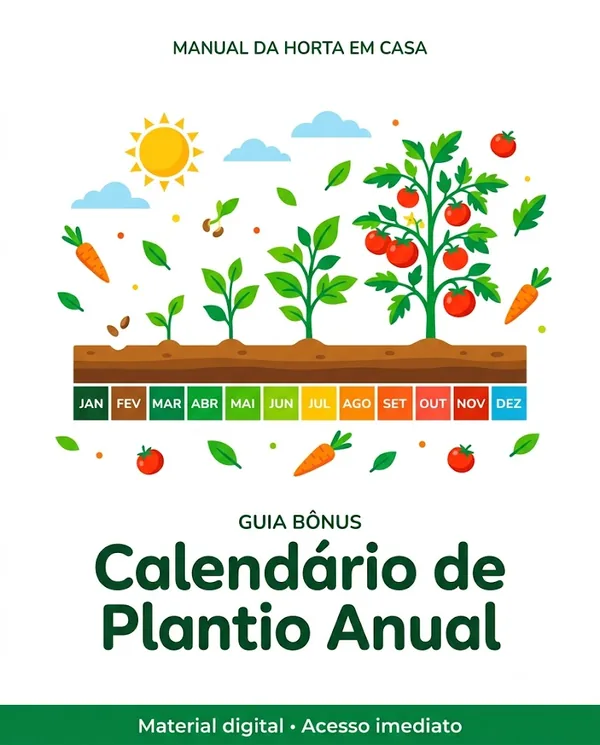
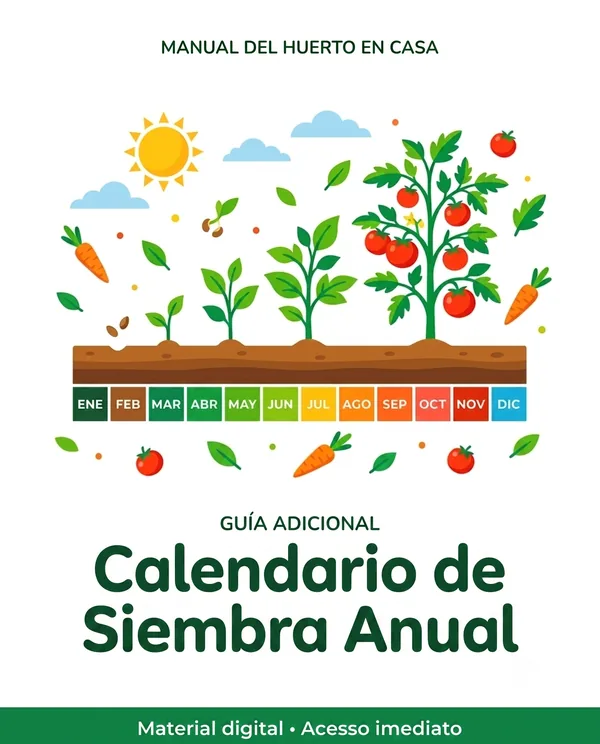
feat(huerta): capas dos bonus em espanhol
- 4 capas ES (Calendario de Siembra / Abono Natural / Recetas contra Plagas / Hierbas Frescas)
- PNG 22MB -> WebP 180KB (-99%)

diff --git a/huerta/index.html b/huerta/index.html
@@ -159,7 +159,7 @@
 <div class="bonus-body"><span class="bonus-tag">Bono 2</span><p>Convierte cáscaras y restos de cocina en comida para tu huerta, gratis.</p><p class="bonus-price"><span class="strike">De US$ 9</span> <span class="bonus-free">GRATIS</span></p></div>
 </article>
 <article class="bonus-card">
-<img class="bonus-cover" src="./assets/bonus-3.webp" alt="Bono 3 — Control de Plagas sin Veneno" width="392" height="532" loading="lazy">
+<img class="bonus-cover" src="./assets/bonus-3.webp" alt="Bono 3 — Recetas Caseras contra Plagas" width="600" height="814" loading="lazy">
 <div class="bonus-body"><span class="bonus-tag">Bono 3</span><p>Recetas caseras para proteger tus plantas, sin ningún veneno.</p><p class="bonus-price"><span class="strike">De US$ 9</span> <span class="bonus-free">GRATIS</span></p></div>
 </article>
 <article class="bonus-card">
